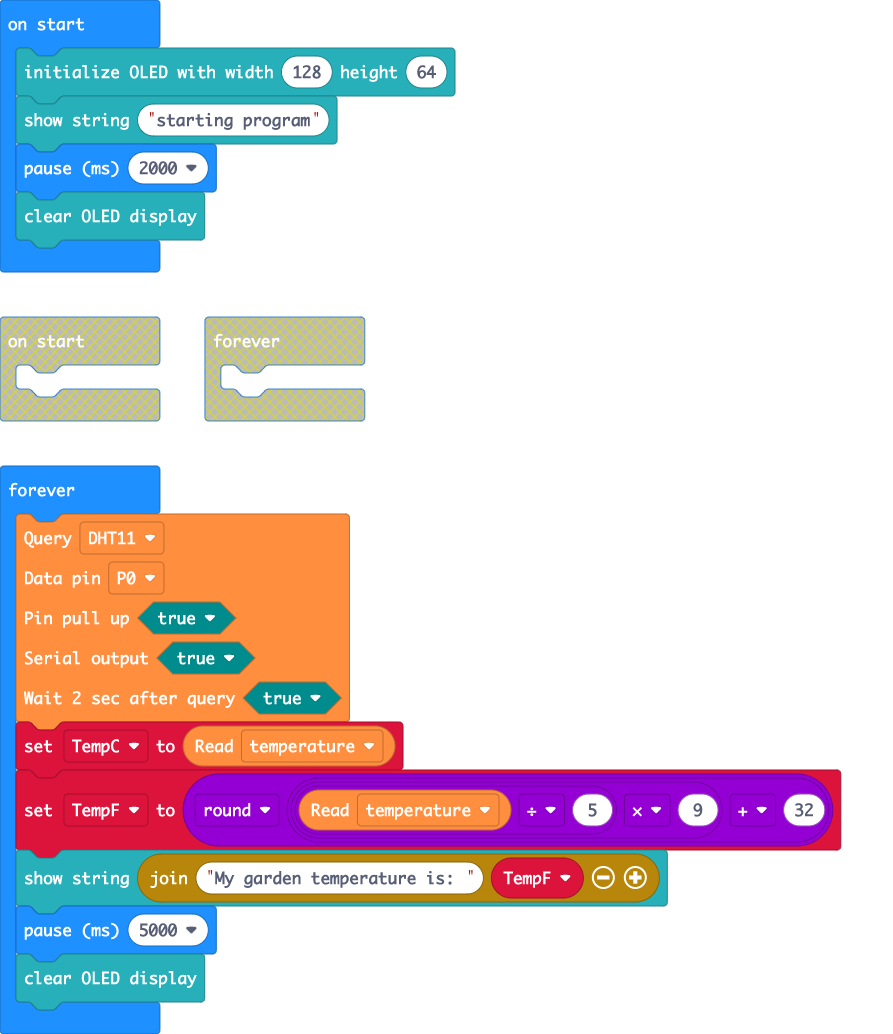
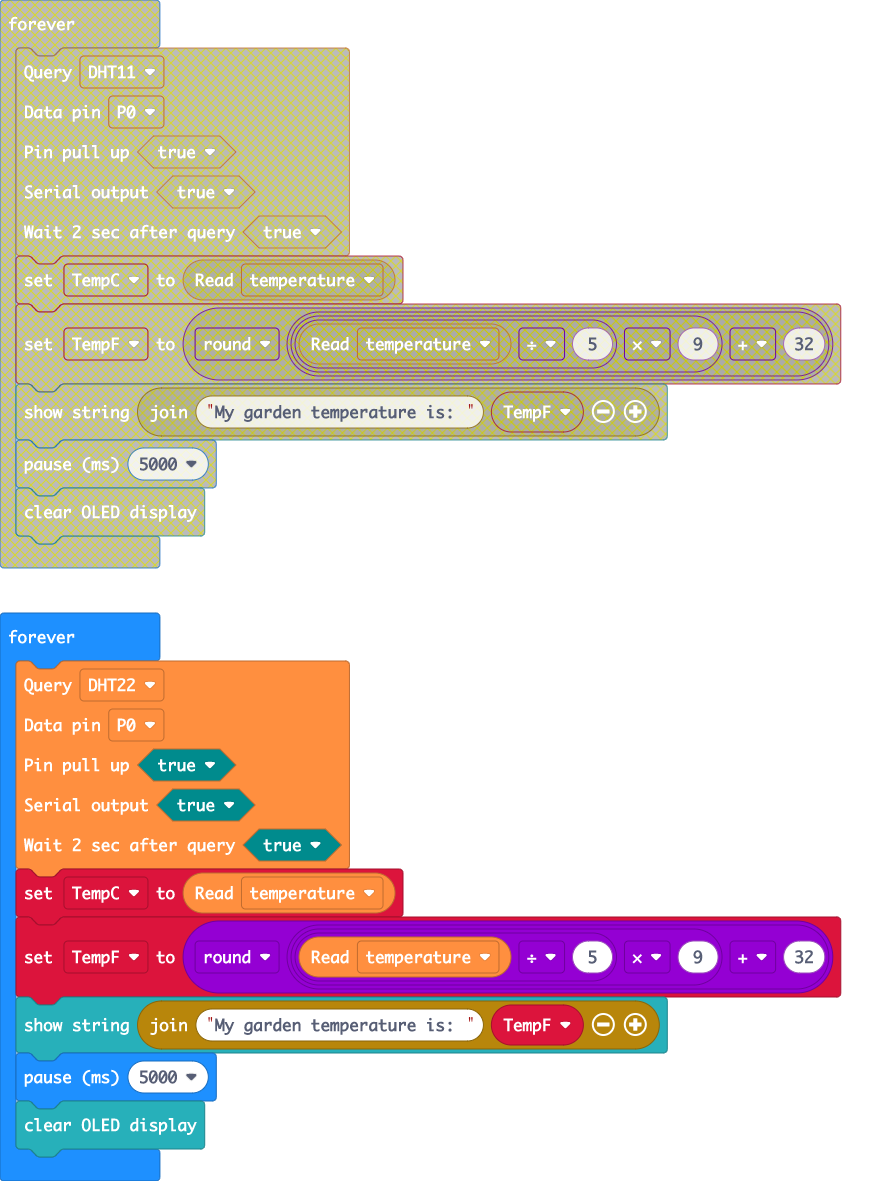
Update pxt.json, main.blocks, main.ts

diff --git a/main.ts b/main.ts
@@ -6,7 +6,7 @@ basic.pause(2000)
 OLED.clear()
 basic.forever(function () {
     dht11_dht22.queryData(
-    DHTtype.DHT11,
+    DHTtype.DHT22,
     DigitalPin.P0,
     true,
     true,
